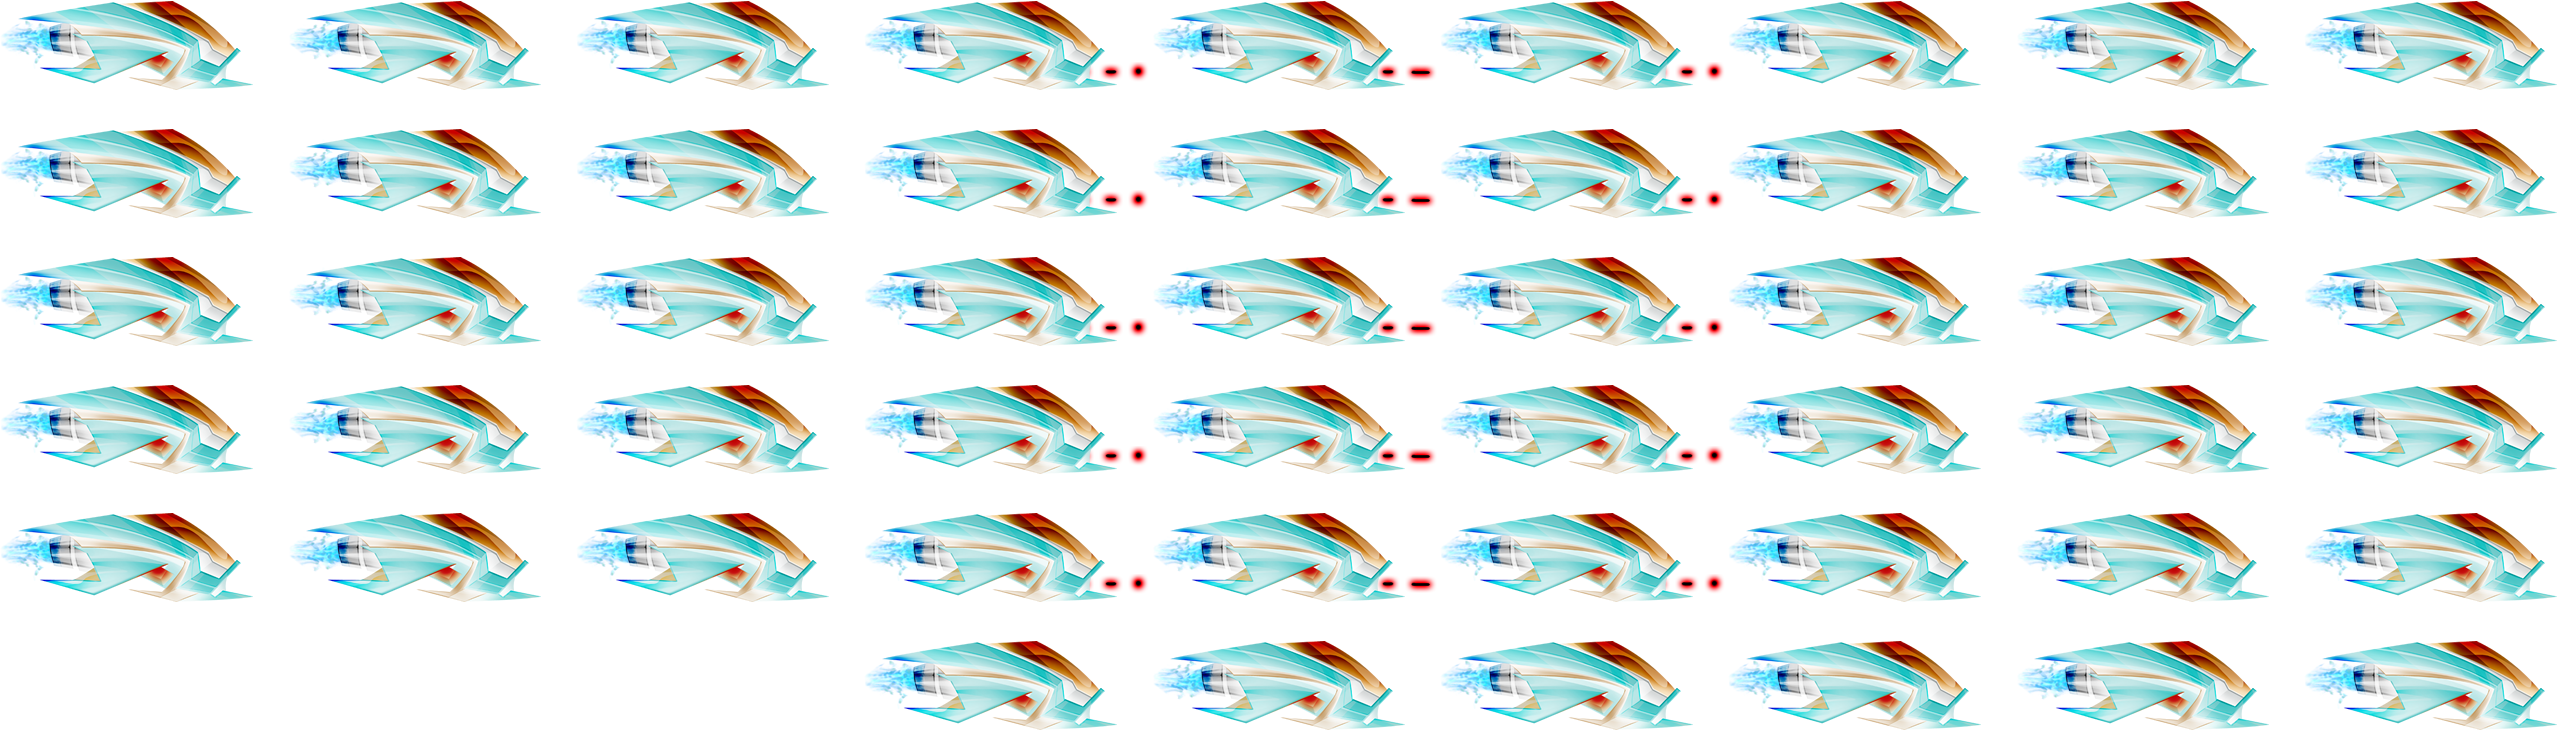
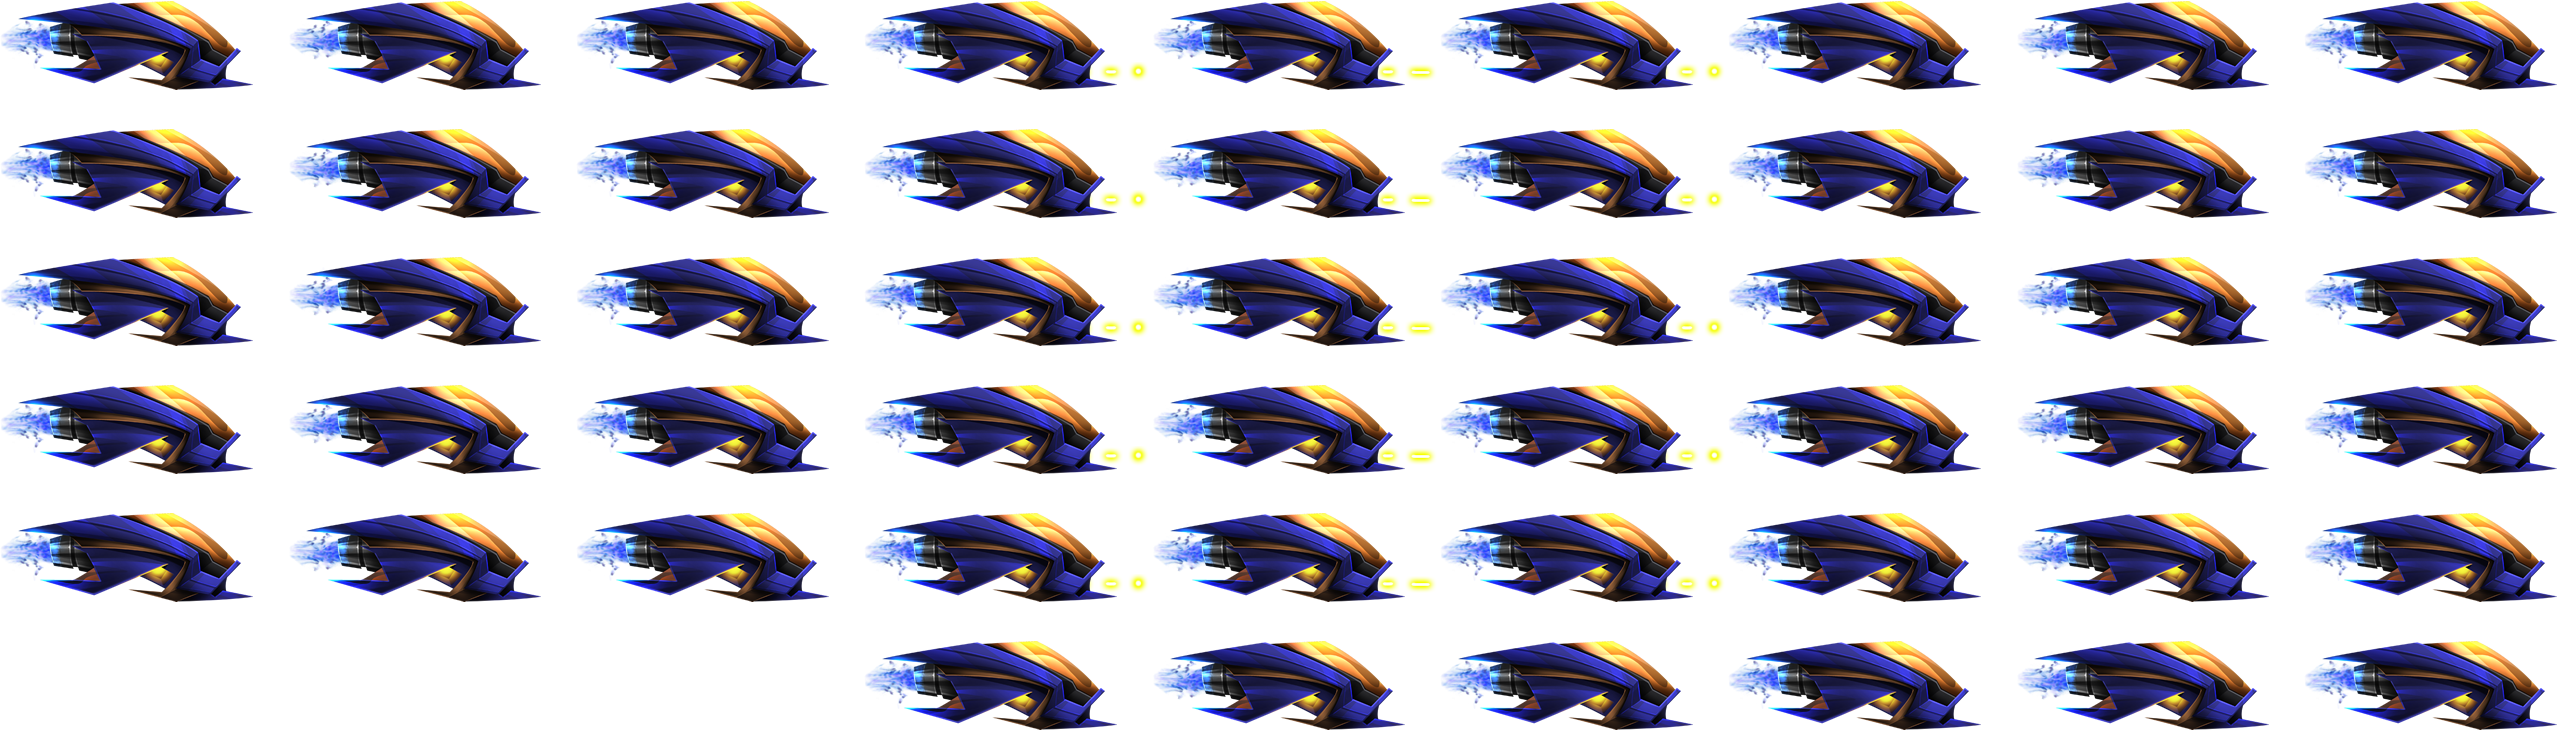
Atualizações

diff --git a/scripts/cenas/jogo.js b/scripts/cenas/jogo.js
@@ -2,59 +2,71 @@ class Jogo extends Cena {
     constructor() {
         super();
 
+        this.mapa = fita.mapa;
+
+        this.cenario = new Cenario(imgCenario, 5);
+        this.pontuacao;        
+
+        this.personagem = new Personagem(imgPersonagem, imgPersonagemInverse);
+        this.personagem.defineSprites(288, 128, 3, 5);
+
+        this.fimDoJogo = false;
+        
+        this.inimigos = [];
+
+    }
+
+    start() {
+        this.fimDoJogo = false;
+
         this.indice1 = 0;
         this.indice2 = -1;
 
-        this.mapa = [
-            {
-                inimigo: 0,
-                velocidade: 10
-            },
-            {
-                inimigo: 1,
-                velocidade: 30
-            },
-            {
-                inimigo: 1,
-                velocidade: 15
-            },
-            {
-                inimigo: 2,
-                velocidade: 40
-            },
-        ]
+        this.indice = 0;
 
-        this.cenario = new Cenario(imgCenario, 5);
         this.pontuacao = new Pontuacao();
+        //this.vida = new Vida(fita.configuracoes.vidaMaxima, fita.configuracoes.vidaInicial);
+        this.vida = new Vida(5, 5);
 
-        this.personagem = new Personagem(imgPersonagem, 288, 128, 3, 5);
-        this.vida = new Vida(4, 3);
-        
-        this.inimigos = [];
+        somFundo.loop();
     }
 
     setup() {
+        this.start();
 
         //(imagem, x, variacaoY, largura, altura, larguraSprite, alturaSprite, colunasSprite, linhasSprite, velocidade, atraso)
         const nave1 = new Incoming(imgShips, width - 52,   30, 120, 140,  60,  70,   0,  14, 10, 30);
         const nave2 = new Incoming(imgShips, width + 250, 430, 100,  80,  50,  40, 155,  95, 8, 100);
         const nave3 = new Incoming(imgShips, width + 500, 230, 100,  80,  50,  40, 300, 140, 1, 50, 0.5);
         const nave4 = new Incoming(imgShips, width + 500, 230, 100, 100,  50,  50,   0, 185, 1, 50, 0.5);
+        
+        //(imagem, x, variacaoY, largura, altura, larguraSprite, alturaSprite, colunasSprite, linhasSprite, velocidade, precisao)
+        //const inimigo2 = new Inimigo(imgInimigo, width - 52, 30, 52, 52, 104, 104, 4, 7, 10);
 
         this.inimigos.push(nave1);
         this.inimigos.push(nave2);
         this.inimigos.push(nave3);
         this.inimigos.push(nave4);
 
-        somFundo.loop();
     }
 
     keyPressed() {
-        if (key === ' ' || key === 'ArrowUp') {
+        if (key === 'W' || key === 'w' || key === 'ArrowUp') {
             this.personagem.pula();
         }
-        if (key === 'ArrowDown') {
+        if (key === 'S' || key === 's' || key === 'ArrowDown') {
             this.personagem.desce();
+        }
+        if (key === ' ' || key == 'ArrowRight') {
+            this.personagem.atira();
+        }
+        if (this.fimDoJogo) {
+            if (key === 'Escape' || key === 'Enter') {
+                this.start();
+                loop();
+            } else {
+                console.log(key);
+            }
         }
     }
 
@@ -71,6 +83,9 @@ class Jogo extends Cena {
 
         this.personagem.exibe();
         this.personagem.aplicaGravidade();
+
+        //const linhaAtual = this.mapa[this.indice];
+        //const inimigo = this.inimigos[linhaAtual.inimigo];
 
         let inimigo = this.inimigos[this.indice1];
         let inimigoVazou = inimigo.x < -inimigo.largura;
@@ -90,10 +105,18 @@ class Jogo extends Cena {
             }
         }
 
+        //inimigo.velocidade = linhaAtual.velocidade;
+
         inimigo.exibe();
         inimigo.move();
 
         if (inimigoVazou) {
+            /*
+            this.indice++;
+            inimigo.aparece();
+            if (this.indice > this.mapa.length - 1) {
+                this.indice = 0;
+            }*/
             this.indice1++;
             if (this.indice1 > this.inimigos.length - 1) {
                 this.indice1 = 1;
@@ -124,10 +147,12 @@ class Jogo extends Cena {
     gameOver() {
         image(imgGameover, width / 2 - 206, height / 2 - 39);
 
+        this.fimDoJogo = true;
+
         textAlign(CENTER);
         fill('#ff0');
         textSize(20);
-        text("PRESSIONE F5 PARA REINICIAR", width / 2, height - 150);
+        text("PRESSIONE ENTER OU ESCAPE PARA TENTAR NOVAMENTE", width / 2, height - 150);
         somFundo.stop();
         noLoop();
     }

diff --git a/scripts/jogo/animacao.js b/scripts/jogo/animacao.js
@@ -1,14 +1,10 @@
 class Animacao {
 
-    constructor(imagem, x, variacaoY, largura, altura, larguraSprite, alturaSprite, colunasSprite, linhasSprite) {
+    constructor(imagem, x, variacaoY, largura, altura) {
 
-        this.imagem = imagem;
-
-        this.colunasSprite = colunasSprite;
-        this.linhasSprite = linhasSprite;
-
-        this.larguraSprite = larguraSprite;
-        this.alturaSprite = alturaSprite;
+        this.imagens = [];
+        this.imagens[0] = imagem;
+        this.imagem = this.imagens[0];
 
         this.largura = largura;
         this.altura = altura;
@@ -20,13 +16,37 @@ class Animacao {
         this.frameX = 0;
         this.frameY = 0;
 
+        this.spriteDeslocamentoX = 0;
+        this.spriteDeslocamentoY = 0;
+
         this.precisao = 0.6;
     }
 
-    exibe() {
-        let a = this.frameX * this.larguraSprite;
-        let b = this.frameY * this.alturaSprite;
-        image(this.imagem, this.x, this.y, this.largura, this.altura, a, b, this.larguraSprite, this.alturaSprite);
+    defineSprites(larguraSprite, alturaSprite, colunasSprite, linhasSprite) {
+        this.colunasSprite = colunasSprite;
+        this.linhasSprite = linhasSprite;
+
+        this.larguraSprite = larguraSprite;
+        this.alturaSprite = alturaSprite;
+    }
+
+    defineImagem(imagem, indice) {
+        if(indice === undefined) {
+            indice = 0;
+        }
+
+        this.imagens[indice] = imagem;
+    }
+
+    exibe(imagem) {
+
+        if(imagem === undefined) {
+            imagem = this.imagem;
+        }
+
+        let a = this.frameX * this.larguraSprite + this.spriteDeslocamentoX;
+        let b = this.frameY * this.alturaSprite + this.spriteDeslocamentoY;
+        image(imagem, this.x, this.y, this.largura, this.altura, a, b, this.larguraSprite, this.alturaSprite);
 
         this.anima();
     }

diff --git a/scripts/jogo/personagem.js b/scripts/jogo/personagem.js
@@ -1,7 +1,11 @@
 class Personagem extends Animacao {
-    constructor(imagem, larguraSprite, alturaSprite, colunas, linhas) {
+    constructor(imagem, imagem2) {
 
-        super(imagem, 10, 100, 144, 64, larguraSprite, alturaSprite, colunas, linhas);
+        super(imagem, 10, 100, 144, 64);
+
+        if(imagem2 !== undefined) {
+            super.defineImagem(imagem2, 1);
+        }
 
         this.velocidadeDoPulo = 0;
         this.aceleracao = 0;
@@ -9,6 +13,7 @@ class Personagem extends Animacao {
         this.alturaPulo = -5;
 
         this.invencivel = false;
+        this.atirando = false;
 
         this.precisao = 0.6;
 
@@ -22,13 +27,14 @@ class Personagem extends Animacao {
     exibe() {
         if (!this.pisca) {
             super.exibe();
+        } else {
+            super.exibe(this.imagens[1]);
         }
 
         if (this.invencivel) {
             if(parseInt(cenas[cenaAtual].pontuacao.pontos*10) % 3 == 0) {
                 this.pisca = !this.pisca;
             }
-            console.log(parseInt(cenas[cenaAtual].pontuacao.pontos));
         } else {
             this.pisca = false;
         }
@@ -45,6 +51,15 @@ class Personagem extends Animacao {
             this.velocidadeDoPulo = 0;
 
         }
+    }
+
+    atira() {
+        this.atirando = true;
+        this.spriteDeslocamentoX = 864;
+        setTimeout(() => {
+            this.atirando = false;
+            this.spriteDeslocamentoX = 0;
+        }, 1000);
     }
 
     aplicaGravidade() {

diff --git a/scripts/jogo/inimigo.js b/scripts/jogo/inimigo.js
@@ -3,12 +3,11 @@ class Inimigo extends Animacao {
         largura, altura, 
         larguraSprite, alturaSprite, 
         colunasSprite, linhasSprite,
-        velocidade, atraso, precisao) {
+        velocidade, precisao) {
         super(imagem, x, variacaoY, largura, altura, larguraSprite, alturaSprite, colunasSprite, linhasSprite);
 
         this.velocidade = velocidade;
-        this.atraso = atraso;
-        this.x = width + this.atraso;
+        this.x = width;
 
         if(precisao !== undefined) {
             this.precisao = precisao;
@@ -17,11 +16,9 @@ class Inimigo extends Animacao {
 
     move() {
         this.x = this.x - this.velocidade;
+    }
 
-        if(this.x < -this.largura - this.atraso) {
-            this.x = width;
-        }
-
-
+    aparece() {
+        this.x = width;
     }
 }

diff --git a/scripts/load.js b/scripts/load.js
@@ -2,6 +2,7 @@ function preload() {
     imgCenario = loadImage('imagens/cenario/nuvens.png');
 
     imgPersonagem = loadImage('imagens/personagem/nship.png');
+    imgPersonagemInverse = loadImage('imagens/personagem/nship_damaged.png');
 
     imgShips = loadImage('imagens/inimigos/shipsheetparts.png');
 
@@ -12,7 +13,10 @@ function preload() {
     imgTelaInicial = loadImage('imagens/assets/telaInicial.png');
 
     fontTelaInicial = loadFont('imagens/assets/fonteTelaInicial.otf');
+    
+    somPulo = loadSound('sons/somPulo.mp3');
 
     somFundo = loadSound('sons/techno.mp3');
-    somPulo = loadSound('sons/somPulo.mp3');
+    
+    fita = loadJSON('fita/fita.json');
 }

diff --git a/scripts/variaveis.js b/scripts/variaveis.js
@@ -4,6 +4,7 @@ let cenas;
 
 let imgCenario;
 let imgPersonagem;
+let imgPersonagemInverse;
 let imgShips;
 let imgGameover;
 let imgSplash;
@@ -15,3 +16,5 @@ let fontTelaInicial;
 let somFundo, somPulo;
 
 let botao;
+
+let fita;
